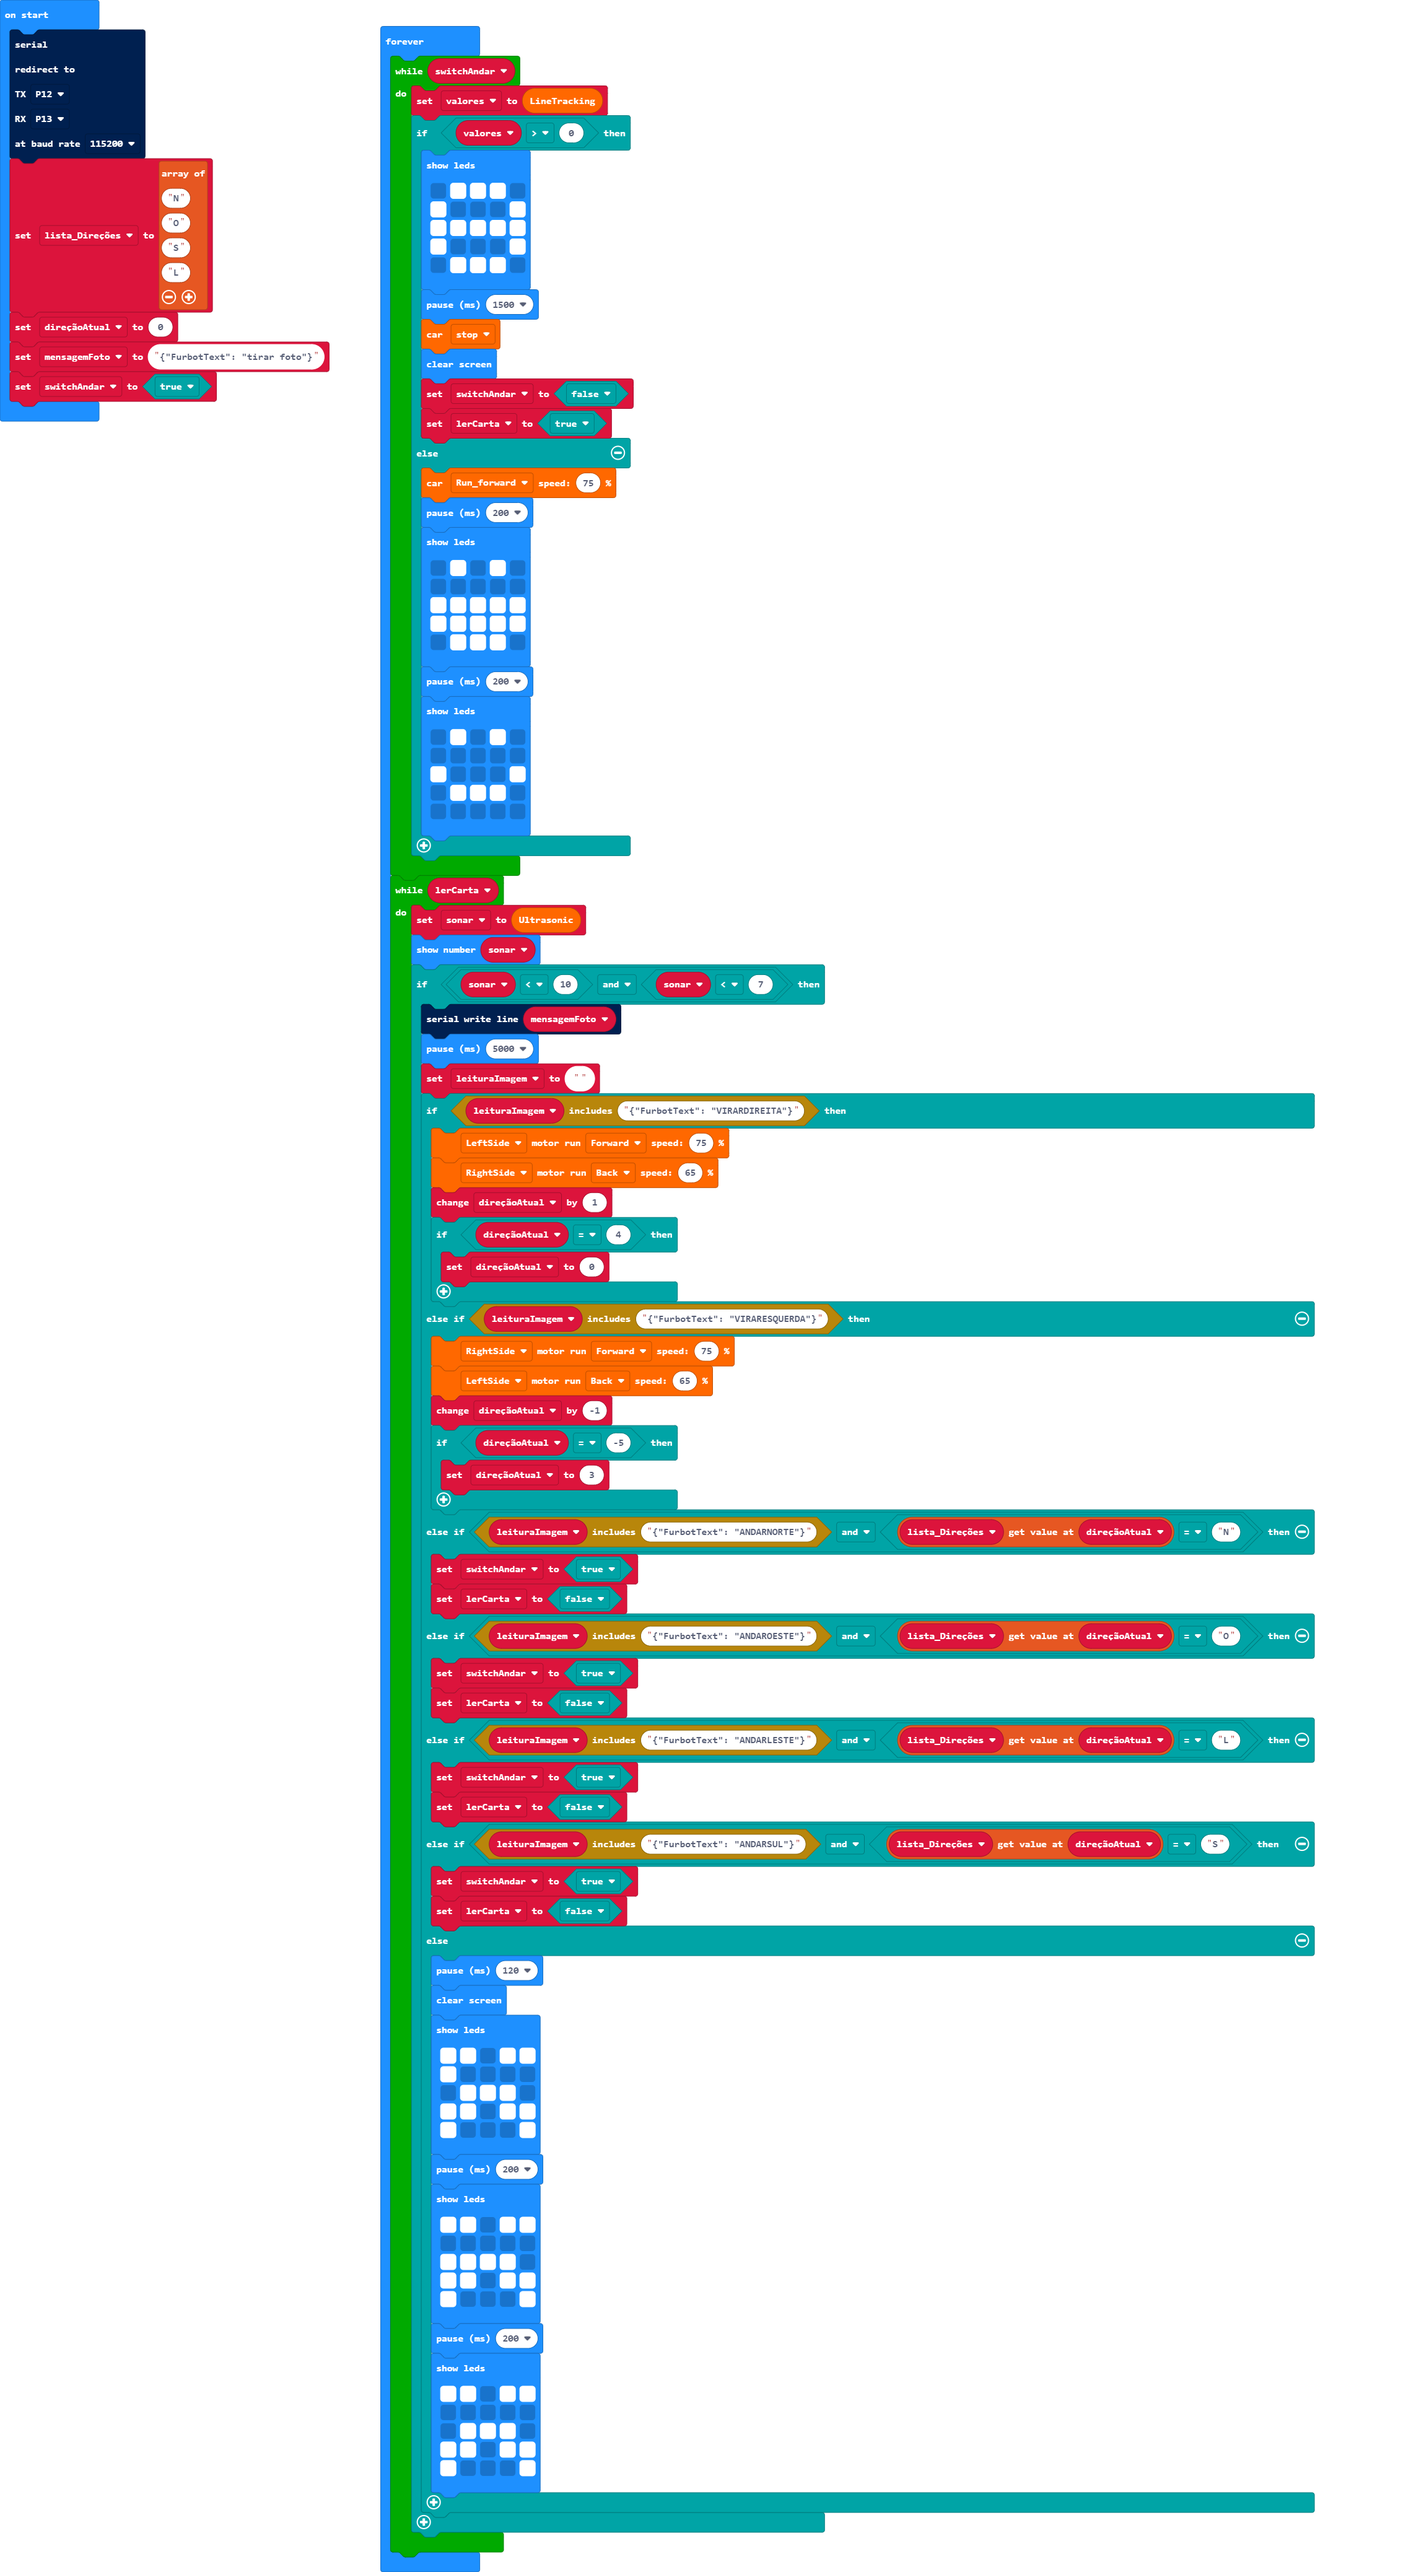
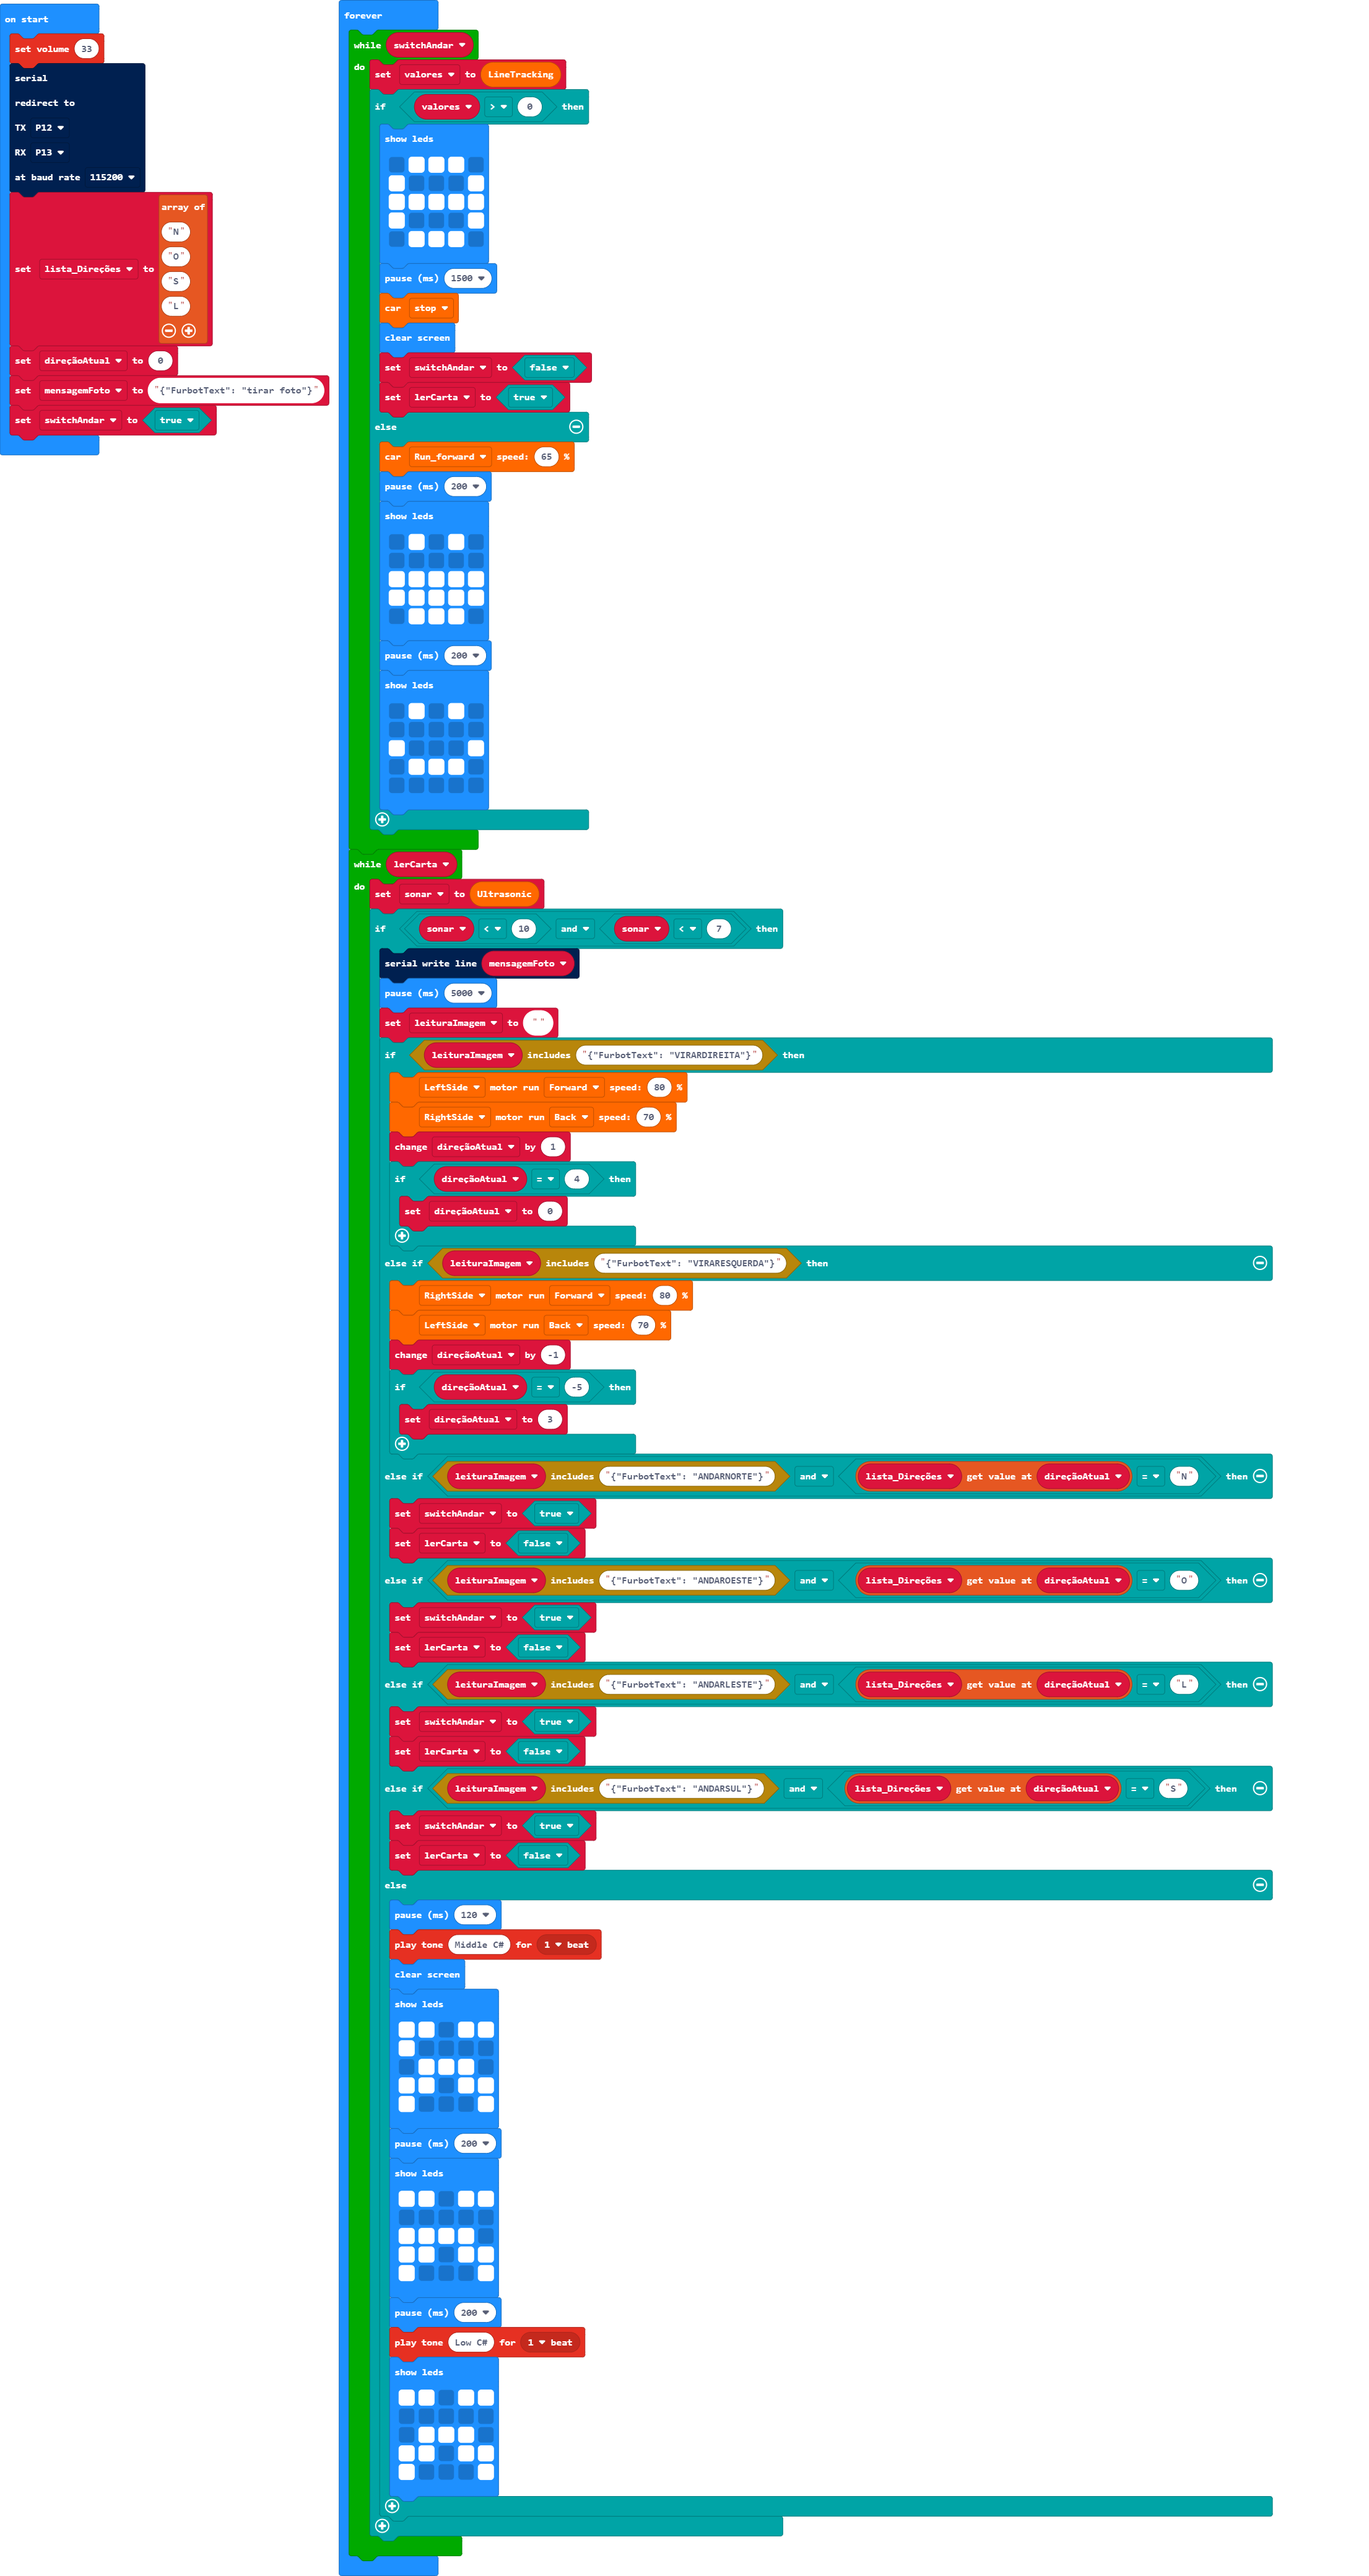
valor da velocidade do motor

Changed region(s): [[0.0, 0.0, 0.9362, 1.0], [0.5617, 0.9632, 0.5929, 0.9942]]

diff --git a/main.ts b/main.ts
@@ -2,6 +2,7 @@ let leituraImagem = ""
 let sonar = 0
 let lerCarta = false
 let valores = 0
+music.setVolume(33)
 serial.redirect(
 SerialPin.P12,
 SerialPin.P13,
@@ -33,7 +34,7 @@ basic.forever(function () {
             switchAndar = false
             lerCarta = true
         } else {
-            turtleBit.run(DIR.Run_forward, 75)
+            turtleBit.run(DIR.Run_forward, 65)
             basic.pause(200)
             basic.showLeds(`
                 . # . # .
@@ -54,21 +55,20 @@ basic.forever(function () {
     }
     while (lerCarta) {
         sonar = turtleBit.ultra()
-        basic.showNumber(sonar)
         if (sonar < 10 && sonar < 7) {
             serial.writeLine(mensagemFoto)
             basic.pause(5000)
             leituraImagem = ""
             if (leituraImagem.includes("{\"FurbotText\": \"VIRARDIREITA\"}")) {
-                turtleBit.Motor(LR.LeftSide, MD.Forward, 75)
-                turtleBit.Motor(LR.RightSide, MD.Back, 65)
+                turtleBit.Motor(LR.LeftSide, MD.Forward, 80)
+                turtleBit.Motor(LR.RightSide, MD.Back, 70)
                 direçãoAtual += 1
                 if (direçãoAtual == 4) {
                     direçãoAtual = 0
                 }
             } else if (leituraImagem.includes("{\"FurbotText\": \"VIRARESQUERDA\"}")) {
-                turtleBit.Motor(LR.RightSide, MD.Forward, 75)
-                turtleBit.Motor(LR.LeftSide, MD.Back, 65)
+                turtleBit.Motor(LR.RightSide, MD.Forward, 80)
+                turtleBit.Motor(LR.LeftSide, MD.Back, 70)
                 direçãoAtual += -1
                 if (direçãoAtual == -5) {
                     direçãoAtual = 3
@@ -87,6 +87,7 @@ basic.forever(function () {
                 lerCarta = false
             } else {
                 basic.pause(120)
+                music.playTone(277, music.beat(BeatFraction.Whole))
                 basic.clearScreen()
                 basic.showLeds(`
                     # # . # #
@@ -104,6 +105,7 @@ basic.forever(function () {
                     # . . . #
                     `)
                 basic.pause(200)
+                music.playTone(139, music.beat(BeatFraction.Whole))
                 basic.showLeds(`
                     # # . # #
                     . . . . .
